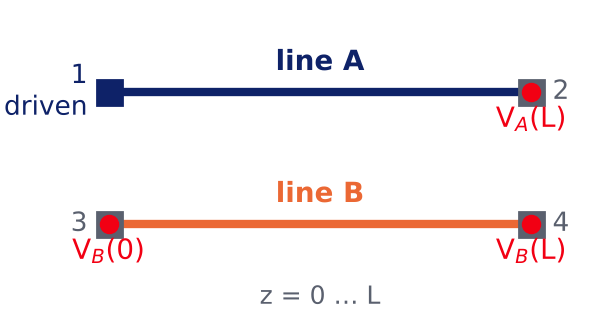
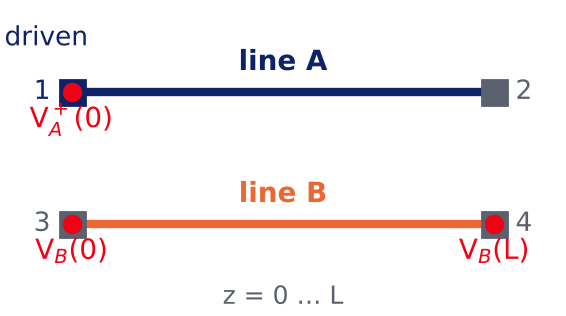
EE crosstalk from fields without the touchstone (aggressor forward-wave reference, raw end samples); slide 13 updated
Claude-Session: https://claude.ai/code/session_01PF7RKNjFsSkyjm1syGCUrV

diff --git a/docs/cst/xtalk/deck/build_istanbul.py b/docs/cst/xtalk/deck/build_istanbul.py
@@ -226,14 +226,14 @@ note(s, "S route: only port 1 is excited in the runs; the uniform-pair symmetrie
 # R2 --------------------------------------------------------------- review: EE crosstalk
 s = new(); title(s, "EE crosstalk: S-parameters and fields agree", "NEXT and FEXT of runs a, c, d from the touchstone and from the field at the line ends")
 fig(s, "review_ee.png", 0.92, 1.42, 11.51, 3.3, "NEXT and FEXT from S-parameters and from fields")
-fig(s, "ports_sketch.png", 0.5, 5.05, 3.2, 1.68, "Port 1 driven; field voltages read at the three other line ends")
-text(s, 3.95, 4.8, 5.0, 0.6, "**From the fields:** end voltages from a quadratic fit over the last 0.3 mm (1.5 electrode cells, λ/7 at 60 GHz; 0.1–1 mm changes the medians by ≤ 1 dB). Ports 2, 3, 4 receive no wave:", size=11)
-y_ = 5.45
-for nm in ("eq13_port", "eq13_next", "eq13_fext"):
-    H_ = Image.open(os.path.join(IMG, nm + ".png")).size[1]; eqimg(s, nm, 4.2, y_, H_ * 0.0029); y_ += H_ * 0.0029 + 0.05
-text(s, 3.95, y_ - 0.02, 5.0, 0.3, "The field scale cancels in the ratios; |S_{21}| refers them to the incident wave.", size=10, color=MUTED)
-table(s, 9.15, 4.95, 3.7, [["Field − S, median", "NEXT", "FEXT"], ["(a) bare line", "−2.0 dB", "−1.7 dB"], ["(c) + pads", "−0.1 dB", "−2.6 dB"], ["(d) + driver", "+0.7 dB", "−1.1 dB"]], [1.7, 1.0, 1.0], size=10.5, row_h=0.4)
-note(s, "Point-by-point scatter 2-6 dB: ripple shifts and the accuracy of a victim 30-60 dB below the aggressor (solver -40 dB, one sample per gap). In (c) the S-parameter NEXT is at the pad port, in (d) at the driver port of line B (S51); the field value is at the line input: the levels still agree. EE crosstalk is a port quantity: the S-parameters give it directly.")
+fig(s, "ports_sketch.png", 0.5, 5.05, 3.2, 1.68, "Port 1 driven; victim read at both line ends, aggressor forward wave at the input")
+text(s, 3.95, 4.8, 5.0, 0.62, "**From the fields only (no touchstone):** victim at the first and last sample of line B; reference = forward wave of A entering the line, from a two-wave fit along A.", size=11)
+y_ = 5.48
+for nm in ("eq13_next", "eq13_fit"):
+    H_ = Image.open(os.path.join(IMG, nm + ".png")).size[1]; eqimg(s, nm, 4.2, y_, H_ * 0.0029); y_ += H_ * 0.0029 + 0.06
+text(s, 3.95, y_, 5.0, 0.45, "Ports 3, 4 are matched: V_{B} there is the outgoing victim wave. Port 1 carries incident and reflected waves: only the forward part is the drive.", size=10, color=MUTED)
+table(s, 9.15, 4.95, 3.7, [["Field − S, median", "NEXT", "FEXT"], ["(a) bare line", "−2.8 dB", "−0.5 dB"], ["(c) + pads", "−0.2 dB", "+0.6 dB"], ["(d) + driver", "+1.2 dB", "+1.0 dB"]], [1.7, 1.0, 1.0], size=10.5, row_h=0.4)
+note(s, "Fields only: |V_B| at the first and last field sample (2.5 um from the ports) over |V_A+(0)|, the forward wave of line A at the line input (two-wave fit along the whole line, n and alpha scanned; residual 7 %). The field-to-voltage scale cancels. In (c) and (d) the field reference is the wave entering the line, the S-parameter reference the wave at the pad or driver port (S51 for NEXT in (d)). Point-by-point scatter 2-7 dB (mean |difference|): ripple shifts and the accuracy of a victim 30-60 dB below the aggressor (solver -40 dB, one sample per gap). A quadratic fit over the last 0.1-1 mm instead of the end sample changes the medians by <= 1.3 dB and reduces the scatter in (a) from 5 to 3 dB.")
 
 # R3 --------------------------------------------------------------- review: EO crosstalk
 s = new(); title(s, "EO crosstalk: the S-parameter route fails on the victim", "X = H[V_{B}] / H[V_{A}], H[V] = (1/L) ∫ V(z) exp(jβ_{o}(z − L)) dz, with V(z) from S or from the fields")

diff --git a/docs/cst/xtalk/review_s_vs_fields/s_vs_fields.py b/docs/cst/xtalk/review_s_vs_fields/s_vs_fields.py
@@ -56,6 +56,17 @@ def v_model(g, Z, z):
     V0 = 0.5*np.sqrt(R0)*2*Zin/(Zin+R0); I0 = V0/Zin
     return V0*np.cosh(g*z) - Z*I0*np.sinh(g*z)
 
+def forward_amp(V, z, f):
+    """Amplitude at z = 0 of the forward wave of a line voltage: two-wave fit V = V+ e^{-gz} + V- e^{gz} over the whole
+    line, n (2.0-2.6, step 0.002) and alpha (0-40 Np/m) scanned. Returns V+(0) and the relative residual."""
+    b0 = 2*np.pi*f*1e9/C0; best = (np.inf, 0)
+    for n in np.arange(2.0, 2.6, 0.002):
+        for a in (0, 5, 10, 20, 40):
+            g = a + 1j*b0*n; A = np.stack([np.exp(-g*z), np.exp(g*z)], 1); c, *_ = np.linalg.lstsq(A, V, rcond=None)
+            r = np.linalg.norm(V - A @ c)/np.linalg.norm(V)
+            if r < best[0]: best = (r, c[0])
+    return best[1], best[0]
+
 def H(V, z, f):
     return np.trapezoid(V*np.exp(1j*2*np.pi*f*1e9*NG/C0*(z-z[-1])), z)/(z[-1]-z[0])
 
@@ -64,6 +75,7 @@ def analyse(r):
     Vf = {k: np.array([(Xf["V"][q][k][0]+Xf["V"][q][k][1])/2 for q in f]) for k in "AB"}
     # cell loading (pitch 0.2 mm): the E_y sample drops by 20-40 % on 2 of the 40 points of each cell. Those points are
     # found from line A (mean over f of |V| against its running median) and replaced by interpolation, on both lines.
+    Vraw = {k: v.copy() for k, v in Vf.items()}
     a = np.mean(abs(Vf["A"]), 0); med = np.array([np.median(a[max(0, j-20):j+21]) for j in range(len(a))])
     bad = a < 0.9*med; good = ~bad
     for k in "AB":
@@ -93,6 +105,9 @@ def analyse(r):
             Sd[key].append([float(v) for v in ln.split()])
         g = lambda k: 10**(np.interp(f, *np.array(Sd[k]).T)/20)
         out.update(S21=g("S2,1"), S31=g("S5,1"), S41=g("S4,1"))
+    # fields only: victim at the line ends (first and last sample) over the aggressor forward wave entering the line
+    VAp = np.array([forward_amp(Vf["A"][i], z, q)[0] for i, q in enumerate(f)])
+    out["NEXT_p"] = abs(Vraw["B"][:, 0]/VAp); out["FEXT_p"] = abs(Vraw["B"][:, -1]/VAp)
     s21 = abs(out["S21"])
     out["NEXT_f"] = s21*abs(Vend["B"][0]/Vend["A"][1]); out["FEXT_f"] = s21*abs(Vend["B"][1]/Vend["A"][1])
     return out

diff --git a/docs/cst/xtalk/deck/slide5_fig.py b/docs/cst/xtalk/deck/slide5_fig.py
@@ -65,15 +65,14 @@ for k, v in EQ.items():
 fig, a = plt.subplots(figsize=(3.6, 2.0)); a.set_xlim(-1.6, 11.6); a.set_ylim(-0.6, 5.0); a.axis("off")
 for y, lab, c in ((3.4, "A", NAVY), (1.0, "B", ORANGE)):
     a.plot([0, 10], [y, y], color=c, lw=3); a.text(5, y + 0.4, f"line {lab}", ha="center", fontsize=10, color=c, weight="bold")
-for x, y, t, col in ((0, 3.4, "1\ndriven", NAVY), (10, 3.4, "2", MUTED), (0, 1.0, "3", MUTED), (10, 1.0, "4", MUTED)):
+for x, y, t, col in ((0, 3.4, "1", NAVY), (10, 3.4, "2", MUTED), (0, 1.0, "3", MUTED), (10, 1.0, "4", MUTED)):
     a.plot(x, y, "s", color=col, ms=9); a.text(x + (-0.5 if x == 0 else 0.5), y, t, ha="right" if x == 0 else "left", va="center", fontsize=9.5, color=col)
-for x, y, t in ((10, 3.4, "V$_A$(L)"), (0, 1.0, "V$_B$(0)"), (10, 1.0, "V$_B$(L)")):
+for x, y, t in ((0, 3.4, "V$_A^+$(0)"), (0, 1.0, "V$_B$(0)"), (10, 1.0, "V$_B$(L)")):
     a.plot(x, y, "o", color=RED, ms=6, zorder=5); a.text(x, y - 0.65, t, ha="center", fontsize=10, color=RED)
-a.text(5, -0.45, "z = 0 … L", ha="center", fontsize=9, color=MUTED)
+a.text(5, -0.45, "z = 0 … L", ha="center", fontsize=9, color=MUTED); a.text(-0.6, 4.25, "driven", ha="center", fontsize=9.5, color=NAVY)
 fig.savefig(os.path.join(OUT, "ports_sketch.png"), dpi=200, bbox_inches="tight", pad_inches=0.02, transparent=True); plt.close(fig)
-EQ2 = {"eq13_port": r"$a_j = 0\ (j = 2, 3, 4)\;\Rightarrow\; V_j = b_j\sqrt{Z_0}$",
-       "eq13_next": r"$\mathrm{NEXT} = |S_{31}| = |S_{21}|\;\left|\dfrac{V_B(0)}{V_A(L)}\right|$",
-       "eq13_fext": r"$\mathrm{FEXT} = |S_{41}| = |S_{21}|\;\left|\dfrac{V_B(L)}{V_A(L)}\right|$"}
+EQ2 = {"eq13_next": r"$\mathrm{NEXT} = \left|\dfrac{V_B(0)}{V_A^+(0)}\right|,\qquad \mathrm{FEXT} = \left|\dfrac{V_B(L)}{V_A^+(0)}\right|$",
+       "eq13_fit": r"$V_A(z) = V_A^+(0)\,e^{-\gamma z} + V_A^-(0)\,e^{\gamma z}$"}
 for k, v in EQ2.items():
     f = plt.figure(figsize=(0.1, 0.1)); f.text(0, 0, v, fontsize=22, color="#1A1A1A")
     f.savefig(os.path.join(OUT, k + ".png"), dpi=200, bbox_inches="tight", pad_inches=0.05, transparent=True); plt.close(f)

diff --git a/docs/cst/xtalk/deck/review_figs.py b/docs/cst/xtalk/deck/review_figs.py
@@ -40,10 +40,10 @@ fig, ax = plt.subplots(1, 3, figsize=(15, 4.3), sharey=True)
 for k, r in enumerate("acd"):
     d = R[r]; f = d["f"]
     nl = "NEXT |S31| (run d: |S51|)"
-    ax[k].plot(f, dB(d["S31"]), color=NAVY, lw=1.6, label=nl); ax[k].plot(f, dB(d["NEXT_f"]), "--", color=BLUE, lw=1.4, label="NEXT from fields")
-    ax[k].plot(f, dB(d["S41"]), color=ORANGE, lw=1.6, label="FEXT |S41|"); ax[k].plot(f, dB(d["FEXT_f"]), "--", color=RED, lw=1.4, label="FEXT from fields")
+    ax[k].plot(f, dB(d["S31"]), color=NAVY, lw=1.6, label=nl); ax[k].plot(f, dB(d["NEXT_p"]), "--", color=BLUE, lw=1.4, label="NEXT from fields")
+    ax[k].plot(f, dB(d["S41"]), color=ORANGE, lw=1.6, label="FEXT |S41|"); ax[k].plot(f, dB(d["FEXT_p"]), "--", color=RED, lw=1.4, label="FEXT from fields")
     ax[k].set_ylim(-80, 0); ax[k].set_xlim(0, 60); ax[k].set_xlabel("Frequency (GHz)"); ax[k].grid(alpha=0.3); ax[k].set_title(TT[r], fontsize=12)
-    for lab, s, fl in (("NEXT", d["S31"], d["NEXT_f"]), ("FEXT", d["S41"], d["FEXT_f"])):
+    for lab, s, fl in (("NEXT", d["S31"], d["NEXT_p"]), ("FEXT", d["S41"], d["FEXT_p"])):
         e = dB(fl)-dB(s); print(r, lab, "field - S, 5-60 GHz: median %+.1f, mean |diff| %.1f dB" % (np.median(e[m5]), np.mean(abs(e[m5]))))
 ax[0].set_ylabel("EE crosstalk (dB)")
 top_legend(fig, ax, ncol=5, top=0.9); fig.savefig(os.path.join(OUT, "review_ee.png"), dpi=200); plt.close(fig)
